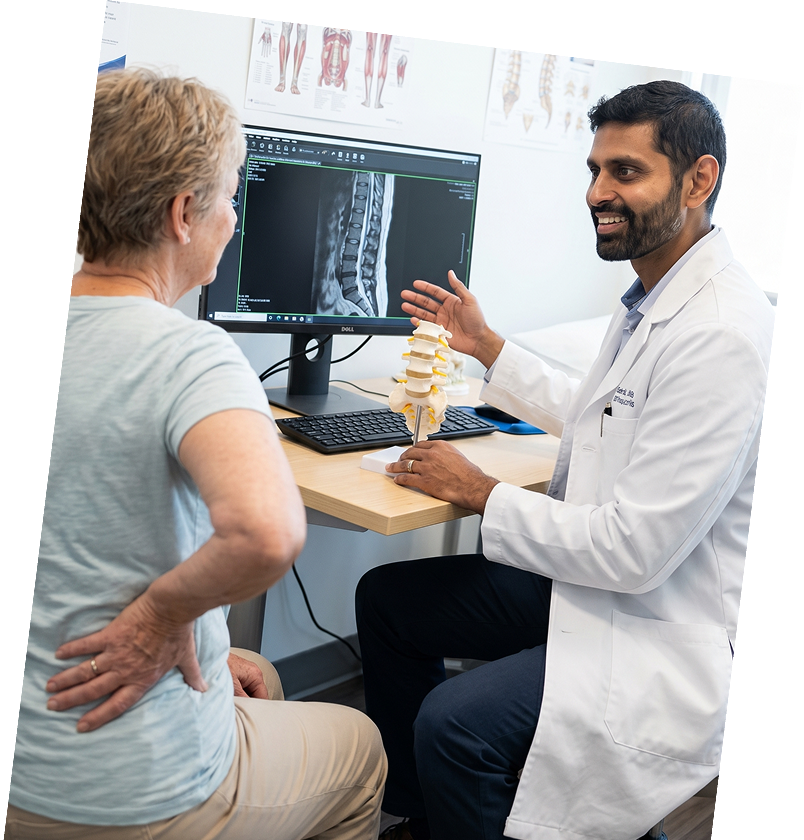
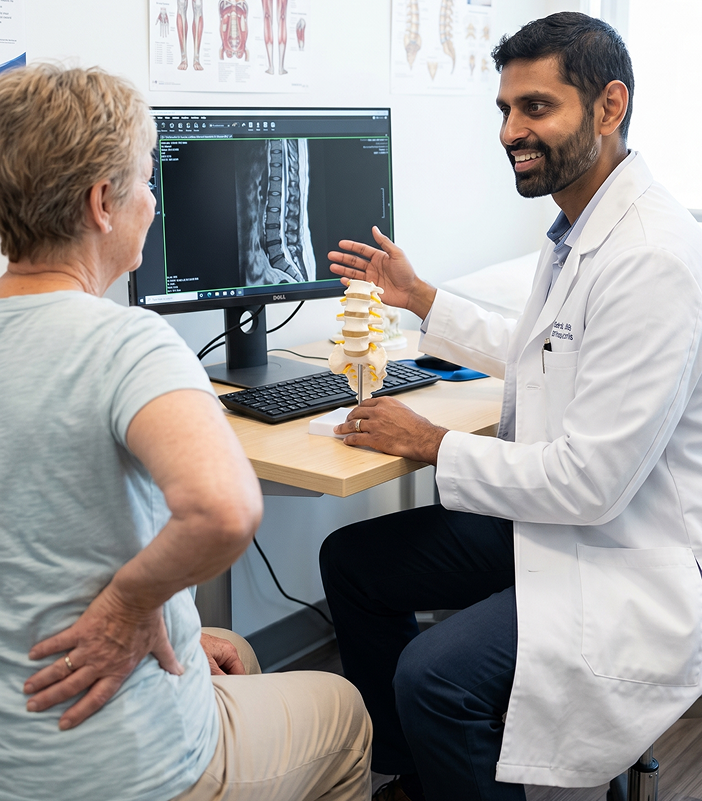
animation and services image fixes, smooth animation of ortho section

diff --git a/src/app/compounts/ReclaimLifeSection.tsx b/src/app/compounts/ReclaimLifeSection.tsx
@@ -12,6 +12,7 @@ export default function ReclaimLifeSection() {
   const headingRef = useRef<HTMLHeadingElement>(null);
   const textRef = useRef<HTMLParagraphElement>(null);
   const buttonRef = useRef<HTMLDivElement>(null);
+  const reclaimRef = useRef<HTMLDivElement>(null);
 
   useGSAP(
     () => {
@@ -38,8 +39,9 @@ export default function ReclaimLifeSection() {
       const tl = gsap.timeline({
         scrollTrigger: {
           trigger: sectionRef.current,
-          start: "top+=5000px bottom",
-          scrub: 1.5,
+          start: "top+=4000px bottom",
+          onEnter: () => { console.log('entered') },
+          toggleActions: "play none none reverse",
         },
       });
 
@@ -76,7 +78,6 @@ export default function ReclaimLifeSection() {
             duration: 1,
             ease: "power3.out",
           },
-          "+=1"
         )
         .to(
           textRef.current,
@@ -92,36 +93,41 @@ export default function ReclaimLifeSection() {
   );
 
   return (
-    <div ref={containerRef} className="relative w-full ">
-      <section
-        className="relative w-full h-dvh bg-cover bg-center bg-no-repeat flex items-center justify-center py-20 px-6 md:px-12 text-center select-none overflow-hidden min-h-dvh"
-        style={{ backgroundImage: "url('/reclaimlife-bg.png')" }}
-      >
-        <div ref={sectionRef} className="relative top-0 mx-auto flex flex-col items-center justify-center z-10 h-[150dvh]">
-          <h2
-            ref={headingRef}
-            className="text-white font-Adorage uppercase text-[42px] sm:text-[60px] md:text-[80px] lg:text-[130px] font-normal leading-[1.05] drop-shadow-[0_4px_0px_#00000066]"
-          >
-            RECLAIM YOUR LIFE WITH <br className="hidden sm:block" /> ADVANCED SPINE SURGERY
-          </h2>
+    <>
+      <div ref={containerRef} className="relative w-full ">
+        <section
+          className="relative w-full h-dvh bg-cover bg-center bg-no-repeat flex items-center justify-center py-20 px-6 md:px-12 text-center select-none overflow-hidden min-h-dvh  mt-[-2%]"
+          style={{ backgroundImage: "url('/reclaimlife-bg.png')" }}
+        >
+          <div ref={sectionRef} className="relative top-0 mx-auto flex flex-col items-center justify-center z-10 pt-[200px]">
+            <h2
+              ref={headingRef}
+              className="text-white font-Adorage uppercase text-[42px] sm:text-[60px] md:text-[80px] lg:text-[130px] font-normal leading-[1.05] drop-shadow-[0_4px_0px_#00000066]"
+            >
+              RECLAIM YOUR LIFE WITH <br className="hidden sm:block" /> ADVANCED SPINE SURGERY
+            </h2>
 
-          <p
-            ref={textRef}
-            className="mt-6 md:mt-8 text-white/95 font-Matangi-Medium text-lg sm:text-2xl md:text-[40px] font-normal leading-relaxed"
-          >
-            Providing Patients With Compassionate, Specialized <br className="hidden md:block" />
-            Treatments for Optimal Recovery & Long-term Health
-          </p>
+            <p
+              ref={textRef}
+              className="mt-6 md:mt-8 text-white/95 font-Matangi-Medium text-lg sm:text-2xl md:text-[40px] font-normal leading-relaxed"
+            >
+              Providing Patients With Compassionate, Specialized <br className="hidden md:block" />
+              Treatments for Optimal Recovery & Long-term Health
+            </p>
 
-          <div ref={buttonRef} className="mt-10 md:mt-18">
-            <a href="#appointment" rel="noopener noreferrer">
-              <button className="px-8 py-3.5 md:px-15 md:py-5 rounded-full bg-[#8C6D3B] border-2 border-white/90 text-white font-sans text-base md:text-[25px] font-medium tracking-wide shadow-lg cursor-pointer">
-                Book Your Appointment
-              </button>
-            </a>
+            <div ref={buttonRef} className="mt-10 md:mt-18">
+              <a href="#appointment" rel="noopener noreferrer">
+                <button className="px-8 py-3.5 md:px-15 md:py-5 rounded-full bg-[#8C6D3B] border-2 border-white/90 text-white font-sans text-base md:text-[25px] font-medium tracking-wide shadow-lg cursor-pointer">
+                  Book Your Appointment
+                </button>
+              </a>
+            </div>
           </div>
-        </div>
-      </section>
-    </div>
+        </section>
+      </div>
+      <div ref={reclaimRef}>
+
+      </div>
+    </>
   );
 }

diff --git a/src/app/compounts/OrthopedicCareSection.tsx b/src/app/compounts/OrthopedicCareSection.tsx
@@ -111,11 +111,10 @@ export default function OrthopedicCareSection() {
                         <div
                             key={card.id}
                             onClick={() => setActiveId(isOpen ? null : card.id)}
-                            className={`relative cursor-pointer overflow-hidden transition-all duration-900 ease-in-out flex flex-col justify-end ${
-                                isOpen
-                                    ? "lg:w-[680px] w-full"
-                                    : "lg:w-[260px] w-full hover:opacity-95"
-                            }`}
+                            className={`relative cursor-pointer overflow-hidden transition-all duration-900 ease-in-out flex flex-col justify-end ${isOpen
+                                ? "lg:w-[680px] w-full"
+                                : "lg:w-[260px] w-full hover:opacity-95"
+                                }`}
                         >
                             <img
                                 src={card.image}
@@ -124,28 +123,20 @@ export default function OrthopedicCareSection() {
                             />
                             <div className="absolute inset-0 bg-gradient-to-r from-white/95 via-white/0 to-transparent pointer-events-none" />
                             <div
-                                className={`relative z-10 text-left transition-all duration-900 ease-in-out ${
-                                    isOpen
-                                        ? "p-6 md:p-7 bg-white/50 backdrop-blur-md pt-16"
-                                        : "p-6 pointer-events-none absolute bottom-12 left-8"
-                                }`}
+                                className={`relative z-10 text-left transition-all duration-900 ease-in-out pt-[30px] max-h-[200px] pl-[32px]`}
                             >
+                                <div className={`absolute z-0 top-0 left-0 w-full h-full bg-white/50 backdrop-blur-md duration-900 ${isOpen ? "delay-600 translate-y-[0%]" : "translate-y-[100%]"}`}>
+
+                                </div>
                                 <h4
-                                    className={`font-Adorage uppercase text-[#8E6C36] whitespace-nowrap transition-transform duration-900 ease-in origin-left ${
-                                        isOpen
-                                            ? "text-3xl md:text-[57px] leading-tight mb-3 rotate-0"
-                                            : "text-[28px] md:text-[57px] -rotate-90"
-                                    }`}
+                                    className={`relative font-Adorage uppercase text-[#8E6C36] whitespace-nowrap transition-transform duration-900 ease-in origin-left  ml-[32px] ${isOpen
+                                        ? "text-3xl md:text-[57px] leading-tight rotate-0"
+                                        : "text-[28px] md:text-[57px] -rotate-90"
+                                        }`}
                                 >
                                     {card.title}
                                 </h4>
-                                <div
-                                    className={`transition-all duration-900 ease-in overflow-hidden ${
-                                        isOpen
-                                            ? "opacity-100 max-h-[200px]"
-                                            : "opacity-0 max-h-0"
-                                    }`}
-                                >
+                                <div className={`relative overflow-hidden w-full pl-[32px]  mb-[30px] ${isOpen ? "duration-900 delay-900 opacity-100" : "duration-300 opacity-0"}`} >
                                     <p className="text-gray-600 font-Matangi-Regular text-base md:text-[19px] leading-relaxed max-w-2xl">
                                         {card.description}
                                     </p>

diff --git a/src/app/compounts/services.tsx b/src/app/compounts/services.tsx
@@ -310,7 +310,7 @@ export default function Services() {
                 "linear-gradient(-90deg,rgba(84, 84, 84, 0.2) 0%, rgba(219, 236, 239, 0) 77.88%)",
             }}>
             </div>
-            <div className="relative w-full flex flex-col lg:flex-row items-center justify-between">
+            <div className="relative w-full flex flex-col lg:flex-row items-center justify-between mb-[100px]">
               <div className="w-1/2 flex flex-col justify-center pr-0 lg:pr-8 z-10">
                 {/* Numbers horizontal track */}
                 <div className="overflow-hidden w-[250px]">
@@ -357,7 +357,7 @@ export default function Services() {
               </div>
 
               {/* Right side Images stack */}
-              <div className="w-1/2 grid grid-cols-1 grid-rows-1 relative z-10 h-[800px] w-[800px] overflow-hidden items-center justify-items-center -mb-[7%]">
+              <div className="w-1/2 grid grid-cols-1 grid-rows-1 relative z-10 items-center justify-items-center -mb-[7%]">
                 {servicesData.map((item, index) => (
                   <div
                     key={index}
@@ -366,11 +366,11 @@ export default function Services() {
                     }}
                     className="col-start-1 row-start-1 relative w-full h-full flex items-center justify-center"
                   >
-                    <div className="relative w-[700px] h-[700px] -rotate-[7deg]">
+                    <div className="relative rotate-3 -mb-[12%] flex">
                       <img
                         src={item.image}
                         alt={item.title}
-                        className="w-full h-full object-cover"
+                        className="object-cover w-[700px] h-[800px]"
                       />
                     </div>
                   </div>
@@ -380,7 +380,7 @@ export default function Services() {
           </div>
 
         </section>
-        <div className="relative mt-[-2%] w-full">
+        <div className="relative w-full">
           <ReclaimLifeSection />
         </div>
       </div>
